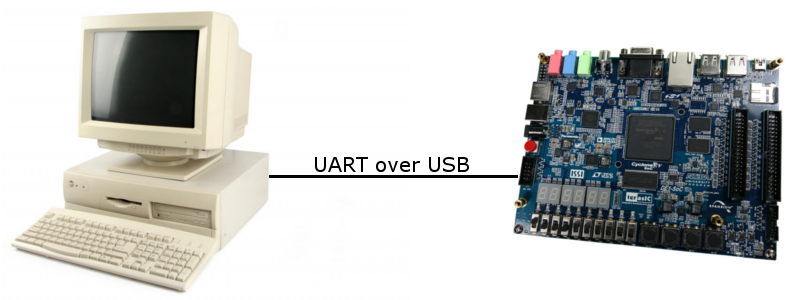
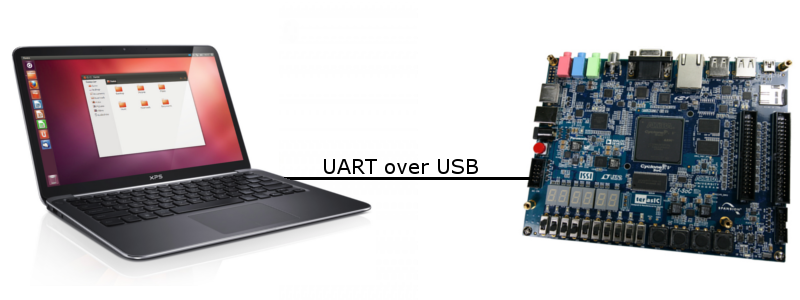
progress on doc

diff --git a/documentation/techniczna/sections/07-pomiary-wydajnosci-modulu-szyfrujacego.tex b/documentation/techniczna/sections/07-pomiary-wydajnosci-modulu-szyfrujacego.tex
@@ -1,0 +1,30 @@
+\section{Pomiary wydajności modułu szyfrującego}
+Ze względu na zastosowanie protokołu UART do komunikacji wydajność produktu ograniczona jest prędkością transmisji. Moduł szyfrujący AES może jednak działać z szybszą prędkością. W celu zmierzenia wydajności szyfrowania przeprowadzono test wydajnościowy.
+
+\subsection{Metodyka testów}
+W celu ustalenia wydajności modułu szyfrującego utworzono nowy projekt. Zaimplementowano układ taktowany zegarem, który na każdym rosnącym zboczu podawał na wejście modułu szyfrującego blok losowych danych oraz porównywał wyjście tego modułu (poprzedni blok w zaszyfrowanej formie) z oczekiwaną wartością. Jeśli przez długi okres czasu (ok. 1 godziny) wszystkie wyniki były poprawne to uznawano, że moduł jest zdolny szyfrować bloki z aktualną częstotliwością zegara.
+
+Do testów użyto 16 różnych par losowych danych wejściowych i ich oczekiwanej postaci zaszyfrowanej. Aby zagwarantować, że kompilator nie zoptymalizuje projektu poprzez uproszczenie modułu szyfrującego lub przeprowadzenie częściowych obliczeń w czasie kompilacji, dane zostały umieszczone w pamięci ROM w układzie FPGA (ang. \textit{on-chip memory}). W czasie działania układu kolejne bloki i wartości oczekiwane są pobierane z pamięci. Użyta została pamięć M10K, która jest w stanie działać z częstotliwością 315MHz (\cite[rozdz. 2]{altera-vol1}). Jest to wartość znacznie większa niż zmierzona maksymalna częstotliwość pracy modułu szyfrującego, więc pamięć nie stanowi wąskiego gardła systemu pomiarowego.
+
+Przyjęto założenie, że klucz w trakcie szyfrowania jest stały -- wszystkie bloki szyfrowane są jednym kluczem, a przy jego zmianie można poświęcić kilka cykli zegara na ustabilizowanie się układu przed przystąpieniem do szyfrowania. Użyty został losowo wygenerowany klucz, który w celu uniknięcia optymalizacji kompilatora również został umieszczony w pamięci i jest wczytywany przez układ przy starcie.
+
+Poprawność szyfrowanych bloków sprawdzana jest przez porównanie wyników z wartościami oczekiwanymi. W przypadku wystąpienia pierwszego błędu zapalana jest dioda LED na płytce Terasic DE1-SOC, co oznacza, że układ nie działa stabilnie przy aktualnej częstotliwości zegara. Zegar o żądanej częstotliwości generowany jest przez układ PLL.
+
+\subsection{Wyniki testów}
+Analiza opóźnień przeprowadzona przez narzędzie \textit{TimeQuest Timing Analyzer} będące częścią środowiska Quartus wykazała, że dla najgorszego modelu (\textit{Slow 1100mV 85C Model}\footnote{Slow/Fast -- jakość egzemplarza układu, 1100mV -- napięcie zasilające, 0C/85C -- temperatura działania}) układ może działać poprawnie z częstotliwością 16,13MHz. Przeprowadzone testy na rzeczywistym urządzeniu (układzie FPGA na płytce Terasic DE1-SoC) pokazały, że moduł szyfrujący działa stabilnie przy częstotliwości 20MHz. Dla takiej częstotliwości narzędzie \textit{TimeQuest Timing Analyzer} informuje, że dla najgorszych modeli (\textit{Slow 1100mV 85C Model} oraz \textit{Slow 1100mV 0C Model}) naruszony jest czas ustalania (ang. \textit{setup time}), ale dla modeli szybkich (\textit{Fast 1100mV 85C Model} oraz \textit{Fast 1100mV 0C Model}) analiza czasowa jest bez zastrzeżeń.
+
+Działanie modułu z częstotliwością 20MHz pozwala na zaszyfrowanie z prędkością
+\begin{equation*}
+20MHz * 128b = 2560b/s = \textbf{320MB/s}
+\end{equation*}
+
+\subsection{Interpretacja wyników}
+Dla porównania przeprowadzono testy wydajności szyfrowania na komputerze PC wyposażonym w procesor Intel i7 6700K taktowany zegarem 4GHz. Użyto benchmarku w programie VeraCrypt, który dał następujące wyniki:
+\begin{description}
+\item[243MB/s] Przy wyłączonej akceleracji sprzętowej (szyfrowanie bez użycia instrukcji AES-NI \cite{aes-processors}) przy użyciu jednego wątku
+\item[1,1GB/s] Przy włączonej akceleracji sprzętowej (szyfrowanie z użyciem instrukcji AES-NI \cite{aes-processors}) przy użyciu jednego wątku
+\end{description}
+
+Zaimplementowany w układzie FPGA moduł szyfrujący jest więc o 30\% szybszy od procesora Intel i7 najnowszej generacji działającego bez użycia instrukcji AES-NI, oraz o 70\% wolniejszy od tego samego procesora wykorzystującego instrukcje AES-NI.
+
+Projekt modułu szyfrującego można jednak optymalizować, np. poprzez zastosowanie przetwarzania potokowego (ang. \textit{pipelining}). Przy podziale modułu na 14  części, po jednej dla każdej rundy szyfrowania, moduł mógłby szyfrować z prędkością nawet czterokrotnie szybszą od współczesnego procesora Intel wykorzystującego sprzętową akcelerację szyfrowania (przy założeniu, że narzut związany z podziałem modułu byłby mały). Badanie wpływu pipeliningu na wydajność modułu szyfrującego nie zostało przeprowadzone -- może być przedmiotem dodatkowych badań.

diff --git a/documentation/przewodnik/sections/05-wyniki-projektu.tex b/documentation/przewodnik/sections/05-wyniki-projektu.tex
@@ -38,13 +38,18 @@ W celu sprawdzenia poprawności działania implementowanych funkcjonalności na 
 
 \paragraph{Testy obciążeniowe} zostały przeprowadzone w celu sprawdzenia stabilności układu pod długotrwały obciążeniem. Polegały na szyfrowaniu i deszyfrowaniu dużych plików, których przetworzenie zajmowało wiele godzin. Testy wykazały, że produkt jest zdolny do długotrwałego, nieprzerwanego przetwarzania danych. 
 
-\paragraph{Testy wydajnościowe} miały na celu sprawdzenie szybkości przetwarzania danych. Polegały na zmierzeniu czasu szyfrowania dużych plików oraz obliczenie prędkości przetwarzania. Ich wyniki były zgodne z obliczoną teoretyczną przepustowością kanału komunikacyjnego, wynoszącą 1MB/90sek.
+\paragraph{Testy wydajnościowe produktu} miały na celu sprawdzenie szybkości przetwarzania danych. Polegały na zmierzeniu czasu szyfrowania dużych plików oraz obliczenie prędkości przetwarzania. Ich wyniki były zgodne z obliczoną teoretyczną przepustowością kanału komunikacyjnego, wynoszącą 1MB/90sek.
+
+\paragraph{Testy wydajnościowe modułu szyfrującego} -- ze względu na zastosowanie protokołu UART do komunikacji wydajność produktu ograniczona jest prędkością transmisji. Moduł szyfrujący AES może jednak działać znacznie szybciej. Testy wydajnościowe modułu szyfrującego miały na celu zmierzenie maksymalnej częstotliwości z jaką może działać.
+
+\subsection{Wydajność}
+Produkt jest zdolny szyfrować i deszyfrować pliki z prędkością 1MB/90s. Taka wartość jest spowodowana niską prędkością transmisji UART. Przeprowadzone testy wydajnościowe modułu szyfrującego wykazały, że jest on zdolny przetwarzać dane z prędkością 320MB/s. Nie jest to jednak limit możliwości szyfrowania AES na FPGA, wynik może zostać poprawiony przez optymalizację modułu szyfrującego np. poprzez zastosowanie przetwarzania potokowego.
 
 \subsection{Możliwości rozwoju}
 Otrzymany produkt końcowy może stanowić bazę dla optymalizacji i ulepszeń. W obecnej wersji, ze względu na ograniczenia transmisji UART możliwe jest przesyłanie danych z prędkością jedynie 1MB/90sek. Najważniejszym z proponowanych usprawnień jest zastąpienie tego protokołu komunikacji bardziej wydajnym. Można również rozważyć optymalizacje związane z implementacją logiki szyfrującej w bardziej wydajny sposób, lub integrację układów szyfrujących z procesorami CPU lub innymi układami wykorzystywanymi np. w IoT.
 
 \subsubsection{Prędkość transmisji}
-Zastosowanie w projekcie protokołu UART do komunikacji ma negatywny wpływ na wydajność produktu. Zastosowane parametry transmisji (115200 baud, 1 bit stopu, brak bitu parzystości) oraz narzut na komunikację związany z koniecznością kontroli poprawności przesyłanych danych powoduje, że maksymalna prędkość transmisji danych wynosi jedynie 1MB/100s. Jest to ograniczenie wynikające wyłącznie z wybranego sposobu komunikacji. Wydajność modułu szyfrującego i deszyfrującego jest o wiele wyższa. Produkt można usprawnić stosując inny protokół komunikacji, który pozwoliłby na osiąganie wyższych prędkości transmisji danych.
+Zastosowanie w projekcie protokołu UART do komunikacji ma negatywny wpływ na wydajność produktu. Zastosowane parametry transmisji (115200 baud, 1 bit stopu, brak bitu parzystości) oraz narzut na komunikację związany z koniecznością kontroli poprawności przesyłanych danych powoduje, że maksymalna prędkość transmisji danych wynosi jedynie 1MB/90s. Jest to ograniczenie wynikające wyłącznie z wybranego sposobu komunikacji. Wydajność modułu szyfrującego i deszyfrującego jest o wiele wyższa. Produkt można usprawnić stosując inny protokół komunikacji, który pozwoliłby na osiąganie wyższych prędkości transmisji danych.
 
 Istnieją układy FPGA, które są zintegrowane z procesorem ARM (np. układ Altera Cyclone V na płytce Terasic DE1-SOC, która była użyta w tym projekcie). Posiadają one szybki interfejs między HPS a programowalną częścią układu. Przykładem zastosowania takiego połączenia jest uruchomienie systemu operacyjnego na procesorze ARM oraz zaprogramowanie i wykorzystanie części FPGA jako sprzętowego układu szyfrującego. Wydajność takiego rozwiązania niewątpliwie nie była by tak drastycznie ograniczona przez prędkość transmisji.
 

diff --git a/documentation/przewodnik/sections/03-wybrane-aspekty-realizacji.tex b/documentation/przewodnik/sections/03-wybrane-aspekty-realizacji.tex
@@ -8,7 +8,13 @@
 Głównym celem produktu końcowego jest udostępnienie użytkownikowi funkcjonalności szyfrowania i deszyfrowania plików. Celem pobocznym przedsięwzięcia projektowego jest eksploracja zagadnienia wykorzystania układów logiki programowalnej FPGA do rozwiązywania problemów dziedziny kryptografii na przykładzie algorytmu AES.
 
 \subsection {Struktura i zasada działania systemu}
-Projekt jest zbudowany w oparciu o architekturę klient-serwer (rys. \ref{fig:system-architecture-basic}). Rolę serwera pełni płytka Terasic DE1-SOC, a klientem jest komputer PC. Komunikacja odbywa się przez kabel USB, przez który tunelowany jest sygnał UART.
+Projekt jest zbudowany w oparciu o architekturę klient-serwer (rys. \ref{fig:system-architecture}). Rolę serwera pełni płytka Terasic DE1-SOC, a klientem jest komputer PC. Komunikacja odbywa się przez kabel USB, przez który tunelowany jest sygnał UART.
+
+\begin{figure}[!h]
+\includegraphics{pictures/system-architecture.png}
+\caption{Części składowe systemu}
+\label{fig:system-architecture}
+\end{figure}
 
 Serwer (płytka Terasic DE1-SOC) wyposażony jest w układ FPGA, którego zadaniami są:
 \begin{itemize}
@@ -17,14 +23,14 @@ Serwer (płytka Terasic DE1-SOC) wyposażony jest w układ FPGA, którego zadani
 \item szyfrowanie i deszyfrowanie odbieranych bloków algorytmem AES w trybie łączenia bloków CBC
 \end{itemize}
 
-Klientem jest komputer PC z systemem operacyjnym Ubuntu. Programem udostępniającym użytkownikowi funkcjonalność szyfrowania i deszyfrowania plików jest jest skrypt, który:
+Klientem jest komputer PC z systemem operacyjnym Ubuntu. Programem udostępniającym użytkownikowi funkcjonalność szyfrowania i deszyfrowania plików jest skrypt, który:
 \begin{itemize}
 \item odczytuje z dysku pliki do zaszyfrowania
 \item dzieli je na bloki, które wysyła do serwera w celu zaszyfrowania lub odszyfrowania
 \item odbiera przetworzone bloki danych oraz zapisuje je na dysku 
 \end{itemize}
 
-Komunikacja między klientem a serwerem odbywa się przez kabel USB, którym tunelowany jest sygnał UART. Końcówką tunelu po stronie serwera jest konwerter UART-USB firmy FTDI. Po stronie klienta tunel obsługiwany jest przez wbudowany w system operacyjny sterownik, który umożliwia realizację komunikacji w sposób analogiczny do zwykłego portu szeregowego.
+Komunikacja między klientem a serwerem odbywa się przez kabel USB, którym tunelowany jest sygnał UART. Końcówką tunelu po stronie serwera jest konwerter UART-USB firmy FTDI. Po stronie klienta tunel obsługiwany jest przez wbudowany w system operacyjny sterownik, który umożliwia realizację komunikacji w sposób analogiczny do zwykłego portu szeregowego. Wykorzystany układ Altera Cyclone V zawiera zintegrowany procesor HPS do którego podłączone są sygnały UART, w wyniku czego muszą one przechodzić przez piny HPS. Procesor nie wykonuje żadnych obliczeń ani nie modyfikuje sygnałów UART.
 
 \subsection{Wykorzystane rozwiązania technologiczne}
 Projekt jest realizowany na platformie FPGA. Układy FPGA, w przeciwieństwie do procesorów CPU, nie mają z góry ustalonej struktury -- schemat układu jest programowalny. Daje to możliwość projektowania wysoce wyspecjalizowanych układów, które będą miały strukturę zoptymalizowaną pod kątem wykonywania konkretnego zadania. Takie podejście jest znacząco różne od procesorów CPU, które są w stanie wykonywać jedynie z góry określone zestawy instrukcji ogólnego przeznaczenia. Stanowi do duże ograniczenie procesorów oraz powoduje, że dobrze zaprojektowane i zoptymalizowane układy zrealizowane na FPGA mogą być znacząco bardziej wydajne niż programy będące ich odpowiednikami wykonywane na CPU.
@@ -32,7 +38,7 @@ Projekt jest realizowany na platformie FPGA. Układy FPGA, w przeciwieństwie do
 \begin{figure}[!h]
 \centering
 \includegraphics[width=\textwidth]{pictures/fpga-board.jpg}
-\caption{Płytka Terasic DE1-SOC}
+\caption{Płytka Terasic DE1-SOC \cite{plytka}}
 \label{fig:fpga-board}
 \end{figure}
 

diff --git a/documentation/procesowa/sections/05-przebieg-prac.tex b/documentation/procesowa/sections/05-przebieg-prac.tex
@@ -41,7 +41,7 @@ Prace przebiegały zgodnie z zaplanowanym harmonogramem. Pierwszy etap implement
 \subsection{Napotkane problemy}
 Niespodziewanym wyzwaniem okazała się odpowiednia konfiguracja płytki FPGA. Problemem był fakt, że wybrany model ma zintegrowany procesor ARM, przez co nie wszystkie sygnały układów peryferyjnych są podłączone bezpośrednio do programowalnej części układu FPGA -- niektóre są podłączone do procesora ARM. Jednym z takich urządzeń jest konwerter USB-UART, do którego sygnałów potrzebny był dostęp z części FPGA układu. Instrukcje obsługi dołączone przez producenta płytki nie dostarczały wystarczających informacji jak to zrealizować, a źródła znalezione w internecie były lakoniczne i nieraz sprzeczne. Spowodowało to, że odpowiednia konfiguracja projektu była wykonywana w dużej mierze metodą prób i błędów, przez co okazała się bardzo czasochłonna.
 
-Kolejnym problemem, również związanym z odpowiednią konfiguracją płytki, było utworzenie karty SD zawierającej skrypt programujący układ FPGA przy starcie. Tym razem źródłem trudności okazał się fakt, że skonfigurowany do pracy z FPGA układu USB-UART nie jest zdolny do komunikacji z procesorem ARM, który przeprowadza programowanie układu FPGA. Powoduje to, że wszystkie komunikaty podczas uruchamiania płytki, które normalnie są przesyłane przez ten układ UART, nie są dostępne. Spowodowało to, że w czasie prac nad skryptem startowym nie było możliwości wglądu do komunikatów startowych. Podobnie jak w przypadku pierwszego problemu, znalezione informacje nie były wystarczające do szybkiego rozwiązania problemu i ponownie na próby i eksperymenty okazały się czasochłonne.
+Kolejnym problemem, również związanym z odpowiednią konfiguracją płytki, było utworzenie karty SD zawierającej skrypt programujący układ FPGA przy starcie. Tym razem źródłem trudności okazał się fakt, że skonfigurowany do pracy z FPGA układu USB-UART nie jest zdolny do komunikacji z procesorem ARM, który przeprowadza programowanie układu FPGA. Powoduje to, że wszystkie komunikaty podczas uruchamiania płytki, które normalnie są przesyłane przez ten układ UART, nie są dostępne. Spowodowało to, że w czasie prac nad skryptem startowym nie było możliwości wglądu do komunikatów startowych. Podobnie jak w przypadku pierwszego problemu, znalezione informacje nie były wystarczające do szybkiego rozwiązania problemu i ponownie próby i eksperymenty okazały się czasochłonne.
 
 Trzecim z dużych napotkanych problemów, było niedeterministyczne zachowanie głównej maszyny stanów odpowiedzialnej za kontrolę transmisji i szyfrowania -- wchodzenie w niezdefiniowany stan i zawieszanie. Z powodu braku doświadczenia zespołu projektowego, znalezienie przyczyny problemu okazało się trudne. Powodem niedeterministycznego zachowania układu okazał się brak synchronizacji sygnału UART RX pochodzącego z zewnętrznego układu (konwertera USB-UART). Powodowało to, że podczas rosnących lub malejących zboczy zegara, które wyzwalały m.in. zmiany stanów maszyny, sygnał UART RX mógł nie mieć dobrze zdefiniowanej wartości (np. również być w trackie rosnącego lub malejącego zbocza), co w efekcie prowadziło do niedeterministycznego zachowania układu. Rozwiązaniem problemu było dodanie synchronizacji sygnału pochodzącego z urządzenia peryferyjnego poprzez dodanie na jego drodze dwóch przerzutników typu D wyzwalanych zboczami głównego zegara \cite{altera-metastability, 2ff-synchronization}, oraz zdefiniowanie ograniczeń czasowych układu (ang. \textit{timing constraints}). Głównym powodem trudności w rozwiązaniu problemu było jego znalezienie, ze względu na niedeterministyczną naturę.
 

diff --git a/documentation/procesowa/sections/06-weryfikacja-wynikow-projektu.tex b/documentation/procesowa/sections/06-weryfikacja-wynikow-projektu.tex
@@ -18,7 +18,9 @@ W celu sprawdzenia poprawności działania implementowanych funkcjonalności na 
 
 \paragraph{Testy obciążeniowe} zostały przeprowadzone w celu sprawdzenia stabilności układu pod długotrwały obciążeniem. Polegały na szyfrowaniu i deszyfrowaniu dużych plików, których przetworzenie zajmowało wiele godzin. Testy wykazały, że produkt jest zdolny do długotrwałego, nieprzerwanego przetwarzania danych.
 
-\paragraph{Testy wydajnościowe} miały na celu sprawdzenie szybkości przetwarzania danych. Polegały na zmierzeniu czasu szyfrowania dużych plików oraz obliczenie prędkości przetwarzania. Ich wyniki były zgodne z obliczoną teoretyczną przepustowością kanału komunikacyjnego, wynoszącą 1MB/90sek.
+\paragraph{Testy wydajnościowe produktu} miały na celu sprawdzenie szybkości przetwarzania danych. Polegały na zmierzeniu czasu szyfrowania dużych plików oraz obliczenie prędkości przetwarzania. Ich wyniki były zgodne z obliczoną teoretyczną przepustowością kanału komunikacyjnego, wynoszącą 1MB/90sek.
+
+\paragraph{Testy wydajnościowe modułu szyfrującego} -- ze względu na zastosowanie protokołu UART do komunikacji wydajność produktu ograniczona jest prędkością transmisji. Moduł szyfrujący AES może jednak działać znacznie szybciej. Testy wydajnościowe modułu szyfrującego miały na celu zmierzenie maksymalnej częstotliwości z jaką może działać.
 
 \subsection{Ocena produktu}
 Produkt końcowy spełnia wszystkie postawione wymagania:
@@ -31,6 +33,6 @@ Produkt końcowy spełnia wszystkie postawione wymagania:
 \item Produkt końcowy jest łatwy w obsłudze
 \end{itemize}
 
-Projekt jest w pełni funkcjonalny oraz może stanowić bazę dla optymalizacji i ulepszeń. W obecnej wersji, ze względu na ograniczenia transmisji UART możliwe jest przesyłanie danych z prędkością jedynie 1MB/90sek. Jednym z proponowanych usprawnień jest zastąpienie tego protokołu komunikacji bardziej wydajnym. Można również rozważyć optymalizacje związane z implementacją logiki szyfrującej w bardziej wydajny sposób, lub integrację układów szyfrujących z procesorami CPU lub innymi układami wykorzystywanymi np. w IoT. Proponowane sposoby rozwoju są bardziej szczegółowo opisane w dokumentacji technicznej.
+Projekt jest w pełni funkcjonalny oraz może stanowić bazę dla optymalizacji i ulepszeń. W obecnej wersji, ze względu na ograniczenia transmisji UART możliwe jest przesyłanie danych z prędkością jedynie 1MB/90sek. Nie jest to jednak maksymalna wydajność zaimplementowanego modułu szyfrującego -- wynosi ona 320MB/s. Jednym z proponowanych usprawnień jest zastąpienie protokołu komunikacji UART bardziej wydajnym. Można również rozważyć optymalizacje związane z implementacją logiki szyfrującej w bardziej wydajny sposób, lub integrację układów szyfrujących z procesorami CPU lub innymi układami wykorzystywanymi np. w IoT. Proponowane sposoby rozwoju są bardziej szczegółowo opisane w dokumentacji technicznej.
 
 \newpage

diff --git a/documentation/techniczna/sections/03-architektura-systemu.tex b/documentation/techniczna/sections/03-architektura-systemu.tex
@@ -5,7 +5,7 @@ Projekt jest zbudowany w oparciu o architekturę klient-serwer (rys. \ref{fig:sy
 \begin{figure}[!h]
 \centering
 \includegraphics[width=6in]{pictures/system-architecture-basic.png}
-\caption{Architektura klient-serwer systemu}
+\caption{Architektura klient-serwer systemu (na zdjęciu laptop Dell XPS 13 \cite{laptop} oraz płytka Terasic DE1-SOC \cite{plytka})}
 \label{fig:system-architecture-basic}
 \end{figure}
 
@@ -16,9 +16,9 @@ Projekt jest zbudowany w oparciu o architekturę klient-serwer (rys. \ref{fig:sy
 \label{fig:system-architecture}
 \end{figure}
 
-Serwer (płytka Terasic DE1-SOC) wyposażony jest w układ FPGA, który jest zaprogramowany tak, aby realizował komunikację UART oraz szyfrowanie i deszyfrowanie AES. W układzie FPGA znajdującym się na tej płytce jest zintegrowany procesor ARM (HPS - ang. \textit{hard processor system}), do którego podłączone są sygnały UART biegnące do układu konwertera URAT-USB. Ponieważ te sygnały nie są bezpośrednio podłączone do programowalnej części układu, komunikacja musi zachodzić przez piny HPS, które są skonfigurowane tak, aby FPGA miało do nich dostęp oraz kontrolę (rozdz. \ref{sec:uart-qsys}).
+Serwer (płytka Terasic DE1-SOC) wyposażony jest w układ Altera Cyclone V SoC 5CSEMA5F31C6, który zawiera programowalną część FPGA oraz posiada zintegrowany procesor ARM (HPS - ang. \textit{hard processor system}). FPGA jest zaprogramowany tak, aby realizował komunikację UART oraz szyfrowanie i deszyfrowanie AES. Sygnały UART biegnące do układu konwertera USB-UART są podłączone do części HPS, w wyniku czego komunikacja między FPGA a konwerterem USB-UART musi zachodzić przez piny HPS, które zostały skonfigurowane tak aby było to możliwe (rozdz. \ref{sec:uart-qsys}).
 
-Klientem jest komputer PC z systemem operacyjnym Ubuntu. Programem udostępniającym użytkownikowi funkcjonalność szyfrowania i deszyfrowania plików jest jest skrypt, który odpowiada za komunikację z serwerem wykonującym zlecona zadania.
+Klientem jest komputer PC z systemem operacyjnym Ubuntu. Programem udostępniającym użytkownikowi funkcjonalność szyfrowania i deszyfrowania plików jest skrypt, który odpowiada za komunikację z serwerem wykonującym zlecona zadania.
 
 Komunikacja między klientem a serwerem odbywa się przez kabel USB, którym tunelowany jest sygnał UART. Końcówką tunelu po stronie serwera jest konwerter UART-USB firmy FTDI. Po stronie klienta tunel obsługiwany jest przez wbudowany w system operacyjny sterownik, który umożliwia realizację komunikacji w sposób analogiczny do zwykłego portu szeregowego.
 

diff --git a/documentation/przewodnik/sections/01-cel-wizja.tex b/documentation/przewodnik/sections/01-cel-wizja.tex
@@ -30,7 +30,7 @@ Płytka Terasic DE1-SOC będzie komunikować się z komputerem przez kabel USB (
 \begin{figure}[!h]
 \centering
 \includegraphics[width=6in]{pictures/system-architecture-basic.png}
-\caption{Architektura systemu}
+\caption{Architektura systemu (na zdjęciu laptop Dell XPS 13 \cite{laptop} oraz płytka Terasic DE1-SOC \cite{plytka})}
 \label{fig:system-architecture-basic}
 \end{figure}
 
@@ -53,7 +53,7 @@ Proces tworzenia produktu wiąże się z wieloma zagrożeniami. W fazie planowan
 	\item zmiana projektu modułów szyfrujących i deszyfrujących -- zastosowanie przetwarzania synchronicznego, w którym rundy szyfrowania wykonywane są w kolejnych cyklach zegara przez ten sam fragment układu
 	\item dostarczenie dwóch osobnych produktów - szyfrującego i deszyfrującego
 	\end{itemize}
-\item Brak możliwości użycia układu UART znajdującego się na płytce, co może prowadzić do konieczności wykorzystania osobnego konwertera USB-UART. Spowodowałoby to do utrudnienia dla użytkownika końcowego związane z potrzebą użycia zewnętrznego konwertera. W przypadku wystąpienia takiego scenariusza wszystkie konieczne do wykonania czynności zostaną dokładnie opisane w dokumentacji użytkownika.
+\item Brak możliwości użycia układu UART znajdującego się na płytce, co może prowadzić do konieczności wykorzystania osobnego konwertera USB-UART. Spowodowałoby to utrudnienia dla użytkownika końcowego związane z potrzebą użycia zewnętrznego konwertera. W przypadku wystąpienia takiego scenariusza wszystkie konieczne do wykonania czynności zostaną dokładnie opisane w dokumentacji użytkownika.
 \item Brak możliwości uruchomienia płytki w taki sposób, aby układ FPGA został automatycznie zaprogramowany przy starcie. Prowadziłoby to do utrudnienia dla użytkownika końcowego związanego z koniecznością ręcznego programowania płytki. W przypadku wystąpienia takiego scenariusza wszystkie konieczne do wykonania czynności zostaną dokładnie opisane w dokumentacji użytkownika.
 \item Problemy związane z niezerowym czasem propagacji sygnału oraz innymi właściwościami fizycznymi układu FPGA, powodującymi niedeterministyczne oraz trudne do wykrycia błędy. Aby temu zapobiec w projekcie zostaną skonfigurowane ograniczenia czasowe (ang. \textit{timing constraints}).
 \item Czynniki losowe opóźniające pracę lub uniemożliwiające ukończenie projektu na czas, np. choroba. W celu minimalizacji skutków takich sytuacji w harmonogramie prac zostanie przewidziany czas przeznaczony na nadrobienie zaległości.

diff --git a/documentation/techniczna/sections/08-mozliwosci-rozwoju.tex b/documentation/techniczna/sections/08-mozliwosci-rozwoju.tex
@@ -2,7 +2,7 @@
 Otrzymany produkt końcowy może stanowić bazę dla optymalizacji i ulepszeń. W obecnej wersji, ze względu na ograniczenia transmisji UART możliwe jest przesyłanie danych z prędkością jedynie 1MB/90sek. Najważniejszym z proponowanych usprawnień jest zastąpienie tego protokołu komunikacji bardziej wydajnym. Można również rozważyć optymalizacje związane z implementacją logiki szyfrującej w bardziej wydajny sposób, lub integrację układów szyfrujących z procesorami CPU lub innymi układami wykorzystywanymi np. w IoT.
 
 \subsection{Prędkość transmisji}
-Zastosowanie w projekcie protokołu UART do komunikacji ma negatywny wpływ na wydajność produktu. Zastosowane parametry transmisji (115200 baud, 1 bit stopu, brak bitu parzystości) oraz narzut na komunikację związany z koniecznością kontroli poprawności przesyłanych danych powoduje, że maksymalna prędkość transmisji danych wynosi jedynie 1MB/100s. Jest to ograniczenie wynikające wyłącznie z wybranego sposobu komunikacji. Wydajność modułu szyfrującego i deszyfrującego jest o wiele wyższa. Produkt można usprawnić stosując inny protokół komunikacji, który pozwoliłby na osiąganie wyższych prędkości transmisji danych.
+Zastosowanie w projekcie protokołu UART do komunikacji ma negatywny wpływ na wydajność produktu. Zastosowane parametry transmisji (115200 baud, 1 bit stopu, brak bitu parzystości) oraz narzut na komunikację związany z koniecznością kontroli poprawności przesyłanych danych powoduje, że maksymalna prędkość transmisji danych wynosi jedynie 1MB/90s. Jest to ograniczenie wynikające wyłącznie z wybranego sposobu komunikacji. Wydajność modułu szyfrującego i deszyfrującego jest o wiele wyższa. Produkt można usprawnić stosując inny protokół komunikacji, który pozwoliłby na osiąganie wyższych prędkości transmisji danych.
 
 Istnieją układy FPGA, które są zintegrowane z procesorem ARM (np. układ Altera Cyclone V na płytce Terasic DE1-SOC, która była użyta w tym projekcie). Posiadają one szybki interfejs między HPS a programowalną częścią układu. Przykładem zastosowania takiego połączenia jest uruchomienie systemu operacyjnego na procesorze ARM oraz zaprogramowanie i wykorzystanie części FPGA jako sprzętowego układu szyfrującego. Wydajność takiego rozwiązania niewątpliwie nie była by tak drastycznie ograniczona przez prędkość transmisji.
 

diff --git a/documentation/procesowa/sections/04-przyjeta-metodyka-pracy.tex b/documentation/procesowa/sections/04-przyjeta-metodyka-pracy.tex
@@ -1,6 +1,6 @@
 \section{Przyjęta metodyka pracy}
 \label{sec:przyjeta-metodyka-pracy}
-Proces tworzenia projektu prowadzony był zgodnie z iteracyjnym modelem wytwarzania oprogramowania. Prace zostały podzielone na szereg iteracji, z których każda miała na celu rozbudowę poprzedniej wersji o nowe funkcjonalności. Efekt każdego przyrostu miał być funkcjonalny oraz przetestowany.
+Proces tworzenia projektu prowadzony był zgodnie z iteracyjnym modelem wytwarzania oprogramowania. Prace zostały podzielone na szereg iteracji, z których każda miała na celu rozbudowę poprzedniej wersji o nowe funkcjonalności. Produkt po każdym przyroście miał poprawnie realizować dodany fragment funkcjonalności oraz być przetestowany.
 
 Ze względu na trudności w oszacowaniu, jak długo mogą zająć kolejne iteracje, wyszczególnione zostały dwa duże etapy agregujące po kilka iteracji. Każdy z tych etapów ma nieprzekraczalny termin. Drugi etap ma na celu dostarczenie gotowego produktu oraz po jego zakończeniu przewidziany jest długi okres czasu na ewentualne poprawki, oraz finalizację projektu.
 
@@ -29,7 +29,7 @@ Drugi etap ma na celu implementację szyfrowania i deszyfrowania AES, sposobu wi
 \item Przygotowanie karty SD zawierającej skrypt startowy programujący układ FPGA.
 \end{itemize}
 
-\subsection{Narzędia użyte do zarządzania projektem}
+\subsection{Narzędzia użyte do zarządzania projektem}
 Do przechowywonia i wersjoniwania kodu źródłowego użyto systemu kontroli wersji Git oraz publicznego repozytorium kodu na stronie \textit{www.github.com}. Pozwoliło to na wygodne zarządzanie kodem źródłowym, wgląd w historię oraz inspekcję po wprowadzeniu zmian do repozytorium. Takie rozwiązanie daje również możliwość łatwego wglądu w kod dla promotora oraz opiekuna projektu.
 
 Ze względu na fakt, że zespół projektowy był jednoosobowy, nie było konieczności używania innych narzędzi do zarządzania i wspomagania procesu wytwarzania oprogramowania. Wszelkie notatki, schematy oraz plany były tworzone odręcznie lub przy pomocy prostych edytorów tekstowych oraz narzędzi graficznych. Takie informacje były przechowywane lokalnie, oraz w razie konieczności były udostępnianie w repozytorium kodu lub wysyłane pocztą elektroniczną.

diff --git a/documentation/procesowa/sections/03-analiza-ryzyka.tex b/documentation/procesowa/sections/03-analiza-ryzyka.tex
@@ -11,7 +11,7 @@ Proces tworzenia produktu wiąże się z następującymi zagrożeniami:
 	\item zmiana projektu modułów szyfrujących i deszyfrujących -- zastosowanie przetwarzania synchronicznego, w którym rundy szyfrowania wykonywane są w kolejnych cyklach zegara przez ten sam fragment układu
 	\item dostarczenie dwóch osobnych produktów - szyfrującego i deszyfrującego
 	\end{itemize}
-\item Brak możliwości użycia układu UART znajdującego się na płytce, co może prowadzić do konieczności wykorzystania osobnego konwertera USB-UART. Spowodowałoby to do utrudnienia dla użytkownika końcowego związane z koniecznością użycia zewnętrznego konwertera. W przypadku wystąpienia takiego scenariusza wszystkie konieczne do wykonania czynności zostaną dokładnie opisane w dokumentacji użytkownika.
+\item Brak możliwości użycia układu UART znajdującego się na płytce, co może prowadzić do konieczności wykorzystania osobnego konwertera USB-UART. Spowodowałoby to utrudnienia dla użytkownika końcowego związane z koniecznością użycia zewnętrznego konwertera. W przypadku wystąpienia takiego scenariusza wszystkie konieczne do wykonania czynności zostaną dokładnie opisane w dokumentacji użytkownika.
 \item Brak możliwości uruchomienia płytki w taki sposób, aby układ FPGA został automatycznie zaprogramowany przy starcie. Prowadziłoby to do utrudnienia dla użytkownika końcowego związanego z koniecznością ręcznego programowania płytki. W przypadku wystąpienia takiego scenariusza wszystkie konieczne do wykonania czynności zostaną dokładnie opisane w dokumentacji użytkownika.
 \item Problemy związane z niezerowym czasem propagacji sygnału oraz innymi właściwościami fizycznymi układu FPGA, powodującymi niedeterministyczne oraz trudne do wykrycia błędy. Aby temu zapobiec w projekcie zostaną skonfigurowane ograniczenia czasowe (ang. \textit{timing constraints}).
 \item Czynniki losowe opóźniające pracę lub uniemożliwiające ukończenie projektu na czas, np. choroba. W celu minimalizacji skutków takich sytuacji w harmonogramie prac zostanie przewidziany czas przeznaczony na nadrobienie zaległości.

diff --git a/documentation/techniczna/sections/04-szczegoly-implementacyjne.tex b/documentation/techniczna/sections/04-szczegoly-implementacyjne.tex
@@ -120,7 +120,7 @@ Najłatwiejszym sposobem na stworzenie karty SD zawierającej potrzebne pliki je
 Aby przy starcie płytki programowanie FPGA przebiegło pomyślnie, należy umieścić kartę SD w czytniku oraz ustawić przełączniki MSEL[4:0] (rys. \ref{fig:msel}) w pozycji 00100.
 
 \subsubsection{Ograniczenia czasowe}
-Aby mieć gwarancję, że projekt nie będzie zachowywał się niedeterministyczne ze względu na złe ułożenie ścieżek sygnałów w chipie FPGA powodujące zbyt długi czas propagacji, zdefiniowane zostały odpowiednie ograniczenia czasowe. Do tego celu posłużyła konsola w narzędziu TimeQuest Timing Analyzer będącym częścią środowiska programistycznego Quartus. Zdefiniowane ograniczenia to:
+Aby mieć gwarancję, że projekt nie będzie zachowywał się niedeterministyczne ze względu na złe ułożenie ścieżek sygnałów w chipie FPGA powodujące zbyt długi czas propagacji, zdefiniowane zostały odpowiednie ograniczenia czasowe. Do tego celu posłużyła konsola w narzędziu TimeQuest Timing Analyzer będącym częścią środowiska programistycznego Quartus. Zdefiniowane ograniczenia oraz komendy, które posłużyły do ich wprowadzenia to:
 
 \begin{itemize}
 \item Zewnętrzny zegar \textit{CLK\_50} o częstotliwości 50MHz
@@ -150,7 +150,7 @@ create_generated_clock -name {DESERIALIZER_CLK} \
 
 \end{itemize}
 
-Są to wszystkie sygnały pełniące w tym projekcie rolę zegarów.
+Są to wszystkie sygnały pełniące w tym projekcie rolę zegarów. Jednostką parametrów \textit{period} oraz \textit{offset} jest nanosekunda (np. okres 20ns odpowiada częstotliwości 50MHz).
 
 \subsection{Główny zegar}
 \label{sec:clk-16}

diff --git a/documentation/uzytkownika/sections/03-instrukcja-obslugi.tex b/documentation/uzytkownika/sections/03-instrukcja-obslugi.tex
@@ -11,6 +11,23 @@ Program trzeba uruchomić z uprawnieniami użytkownika root, ponieważ korzysta 
 \item[\textbf{-d}]Flaga oznaczająca działanie w trybie deszyfrowania. Jeśli nie jest podana to program działa w trybie szyfrowania.
 \item[\textbf{-in}]Nazwa pliku wejściowego
 \item[\textbf{-out}]Nazwa pliku wyjściowego
-\item[\textbf{-K}]Klucz szyfrowania
-\item[\textbf{-iv}]Wektor inicjalizacji
+\item[\textbf{-K}]Klucz szyfrowania zapisany jako liczba w systemie szesnastkowym (256 bitów, 64 cyfry szesnastkowe)
+\item[\textbf{-iv}]Wektor inicjalizacji zapisany jako liczba w systemie szesnastkowym (128 bitów, 32 cyfry szesnastkowe)
 \end{interface}
+
+\subsection{Przykłady uruchomienia}
+W celu zaszyfrowania pliku o nazwie \textit{plaintext-file.txt} do pliku \textit{cyphertext} kluczem \textit{000102030405060708090a0b0c0d0e0f101112131415161718191a1b1c1d1e1f} oraz z wektorem inicjalizacji \textit{12345678901234567890123456789012} należy uruchomić program poleceniem:
+
+\begin{verbatim}
+sudo ./fpga-aes -in plaintext-file.txt -out cyphertext 
+-K 000102030405060708090a0b0c0d0e0f101112131415161718191a1b1c1d1e1f 
+-iv 12345678901234567890123456789012
+\end{verbatim}
+
+Aby ten plik odszyfrować, należy użyć polecenia:
+
+\begin{verbatim}
+sudo ./fpga-aes -d -in cyphertext -out plaintext-file.txt 
+-K 000102030405060708090a0b0c0d0e0f101112131415161718191a1b1c1d1e1f 
+-iv 12345678901234567890123456789012
+\end{verbatim}
